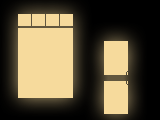
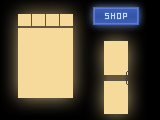
Shop signs and doors

Changed region(s): [[0.5312, 0.0, 0.9062, 0.25]]

diff --git a/src/com/xrbpowered/aethertown/world/region/HouseRole.java b/src/com/xrbpowered/aethertown/world/region/HouseRole.java
@@ -5,9 +5,11 @@ import java.util.Random;
 
 import com.xrbpowered.aethertown.render.tiles.IllumLayer;
 import com.xrbpowered.aethertown.render.tiles.IllumPattern;
+import com.xrbpowered.aethertown.render.tiles.IllumTileComponent;
 import com.xrbpowered.aethertown.utils.Shuffle;
 import com.xrbpowered.aethertown.world.gen.plot.ArchitectureStyle;
 import com.xrbpowered.aethertown.world.gen.plot.ArchitectureTileSet;
+import com.xrbpowered.aethertown.world.gen.plot.ArchitectureTileSet.DoorInfo;
 import com.xrbpowered.aethertown.world.gen.plot.HouseGenerator;
 
 public class HouseRole {
@@ -27,14 +29,17 @@ public class HouseRole {
 	
 	private static class LocalShopRole extends HouseRole {
 		private boolean addOffice;
-		private LocalShopRole(String title, Color color, boolean addOffice) {
+		private LocalShopRole(String title, final DoorInfo door, Color color, boolean addOffice) {
 			super(title, color,
-				new ArchitectureStyle.BlankGroundNotFront(1, ArchitectureTileSet.shopSet).setIllum(IllumPattern.shop),
-				new ArchitectureStyle.BlankGroundNotFront(2, ArchitectureTileSet.shopSet, ArchitectureTileSet.baseSet).setIllum(IllumPattern.shop, (IllumPattern)null),
-				new ArchitectureStyle.BlankGroundNotFront(3, ArchitectureTileSet.shopSet, ArchitectureTileSet.baseSet).setIllum(IllumPattern.shop, (IllumPattern)null),
-				new ArchitectureStyle.BlankGroundNotFront(3, ArchitectureTileSet.shopSet, ArchitectureTileSet.officeSet).setIllum(IllumPattern.shop, IllumPattern.office)
+				new ArchitectureStyle.BlankGroundNotFront(1, ArchitectureTileSet.shopSet).setIllum(IllumPattern.shop).setDoorInfo(door),
+				new ArchitectureStyle.BlankGroundNotFront(2, ArchitectureTileSet.shopSet, ArchitectureTileSet.baseSet).setIllum(IllumPattern.shop, (IllumPattern)null).setDoorInfo(door),
+				new ArchitectureStyle.BlankGroundNotFront(3, ArchitectureTileSet.shopSet, ArchitectureTileSet.baseSet).setIllum(IllumPattern.shop, (IllumPattern)null).setDoorInfo(door),
+				new ArchitectureStyle.BlankGroundNotFront(3, ArchitectureTileSet.shopSet, ArchitectureTileSet.officeSet).setIllum(IllumPattern.shop, IllumPattern.office).setDoorInfo(door)
 			);
 			this.addOffice = addOffice;
+		}
+		private LocalShopRole(String title, Color color, boolean addOffice) {
+			this(title, color==colorFoodSmall ? DoorInfo.fastFood :  null, color, addOffice);
 		}
 		@Override
 		public ArchitectureStyle arch(HouseGenerator house, Random random) {
@@ -80,10 +85,26 @@ public class HouseRole {
 	}
 
 	private static class RestaurantRole extends HouseRole {
-		private RestaurantRole(String title) {
+		private RestaurantRole(String title, DoorInfo door) {
 			super(title, colorFood,
-				new ArchitectureStyle.BlankGroundBack(2, ArchitectureTileSet.officeSet).setIllum(IllumPattern.restaurant)
+				new ArchitectureStyle.BlankGroundBack(1, ArchitectureTileSet.officeSet).setIllum(IllumPattern.restaurant).setDoorInfo(door),
+				new ArchitectureStyle.BlankGroundBack(2, ArchitectureTileSet.officeSet).setIllum(IllumPattern.restaurant).setDoorInfo(door),
+				new ArchitectureStyle.BlankGroundBack(2, ArchitectureTileSet.officeSet, ArchitectureTileSet.baseSet).setIllum(IllumPattern.restaurant, (IllumPattern)null).setDoorInfo(door),
+				new ArchitectureStyle.BlankGroundBack(3, ArchitectureTileSet.officeSet, ArchitectureTileSet.officeSet).setIllum(IllumPattern.restaurant, IllumPattern.office).setDoorInfo(door)
 			);
+		}
+		@Override
+		public ArchitectureStyle arch(HouseGenerator house, Random random) {
+			if(house.getFootprint()>=8) {
+				if(!isPark(house)) {
+					house.addRole = addCityRole(house, random);
+					return house.addRole==residential ? arch[1] : arch[2];
+				}
+				else
+					return arch[0];
+			}
+			else
+				return arch[1];
 		}
 	}
 	
@@ -97,6 +118,14 @@ public class HouseRole {
 		@Override
 		public ArchitectureStyle arch(HouseGenerator house, Random random) {
 			return isCityHouse(house, random) ? arch[1] : arch[0];
+		}
+		@Override
+		public IllumTileComponent getSign() {
+			return ArchitectureTileSet.hotelSign;
+		}
+		@Override
+		public float getSignY() {
+			return 9f;
 		}
 	}
 
@@ -124,10 +153,14 @@ public class HouseRole {
 				return house.getFootprint()<=4 || isCityHouse(house, random) ? arch[2] : arch[1];
 			}
 		}
+		@Override
+		public IllumTileComponent getSign() {
+			return ArchitectureTileSet.postSign;
+		}
 	};
 	public static final HouseRole civicCentre = new HouseRole("Civic Centre", colorCivic,
-			new ArchitectureStyle(2, ArchitectureTileSet.officeSet).setIllum(IllumPattern.officeLobby, IllumLayer.living, IllumPattern.office, IllumLayer.living).setDoorInfo(ArchitectureTileSet.officeDoubleDoor),
-			new ArchitectureStyle(3, ArchitectureTileSet.officeSet).setIllum(IllumPattern.officeLobby, IllumLayer.living, IllumPattern.office, IllumLayer.living).setDoorInfo(ArchitectureTileSet.officeDoubleDoor)
+			new ArchitectureStyle(2, ArchitectureTileSet.officeSet).setIllum(IllumPattern.officeLobby, IllumLayer.living, IllumPattern.office, IllumLayer.living).setDoorInfo(DoorInfo.officeDouble),
+			new ArchitectureStyle(3, ArchitectureTileSet.officeSet).setIllum(IllumPattern.officeLobby, IllumLayer.living, IllumPattern.office, IllumLayer.living).setDoorInfo(DoorInfo.officeDouble)
 		) {
 		@Override
 		public ArchitectureStyle arch(HouseGenerator house, Random random) {
@@ -135,22 +168,30 @@ public class HouseRole {
 		}
 	};
 	public static final HouseRole hospital = new HouseRole("Hospital", colorHospital,
-			new ArchitectureStyle(2, ArchitectureTileSet.officeSet, ArchitectureTileSet.baseSet).setIllum(IllumPattern.hospital, IllumPattern.hospitalWards).setDoorInfo(ArchitectureTileSet.officeDoubleDoor),
-			new ArchitectureStyle(3, ArchitectureTileSet.officeSet, ArchitectureTileSet.baseSet).setIllum(IllumPattern.hospital, IllumPattern.hospitalWards).setDoorInfo(ArchitectureTileSet.officeDoubleDoor)
+			new ArchitectureStyle(2, ArchitectureTileSet.officeSet, ArchitectureTileSet.baseSet).setIllum(IllumPattern.hospital, IllumPattern.hospitalWards).setDoorInfo(DoorInfo.officeDouble),
+			new ArchitectureStyle(3, ArchitectureTileSet.officeSet, ArchitectureTileSet.baseSet).setIllum(IllumPattern.hospital, IllumPattern.hospitalWards).setDoorInfo(DoorInfo.officeDouble)
 		) {
 		@Override
 		public ArchitectureStyle arch(HouseGenerator house, Random random) {
 			return house.getFootprint()<=4 || isCityHouse(house, random) ? arch[1] : arch[0];
+		}
+		@Override
+		public IllumTileComponent getSign() {
+			return ArchitectureTileSet.hospitalSign;
+		}
+		@Override
+		public float getSignY() {
+			return 6.5f;
 		}
 	};
 	
 	public static final HouseRole hotel = new HotelRole("Hotel");
 	public static final HouseRole inn = new HotelRole("Inn");
 	
-	public static final HouseRole localShop = new LocalShopRole("Local Store", colorShopSmall, false);
+	public static final HouseRole localShop = new LocalShopRole("Local Store", DoorInfo.localShop, colorShopSmall, false);
 	public static final HouseRole supermarket = new HouseRole("Supermarket", colorShopLarge,
-			new ArchitectureStyle.BlankGroundNotFront(2, ArchitectureTileSet.shopSet, ArchitectureTileSet.officeSet).setIllum(IllumPattern.shop).setDoorInfo(ArchitectureTileSet.shopDoubleDoor),
-			new ArchitectureStyle.BlankGroundNotFront(3, ArchitectureTileSet.shopSet, ArchitectureTileSet.officeSet).setIllum(IllumPattern.shop).setDoorInfo(ArchitectureTileSet.shopDoubleDoor)
+			new ArchitectureStyle.BlankGroundNotFront(2, ArchitectureTileSet.shopSet, ArchitectureTileSet.officeSet).setIllum(IllumPattern.shop).setDoorInfo(DoorInfo.supermarket),
+			new ArchitectureStyle.BlankGroundNotFront(3, ArchitectureTileSet.shopSet, ArchitectureTileSet.officeSet).setIllum(IllumPattern.shop).setDoorInfo(DoorInfo.supermarket)
 		) {
 		@Override
 		protected ArchitectureStyle arch(HouseGenerator house, Random random) {
@@ -159,7 +200,7 @@ public class HouseRole {
 	};
 	public static final HouseRole clothesShop = new ShopRole("Fashion Shop", IllumPattern.shop);
 	public static final HouseRole giftShop = new HouseRole("Gift Shop + Cafeteria", colorShop,
-		new ArchitectureStyle.BlankBack(1, ArchitectureTileSet.shopSet).setIllum(IllumPattern.shop, IllumLayer.living)
+		new ArchitectureStyle.BlankBack(1, ArchitectureTileSet.shopSet).setIllum(IllumPattern.shop, IllumLayer.living).setDoorInfo(DoorInfo.coffeeShop)
 	);
 	
 	public static final HouseRole museum = new HouseRole("Museum", colorCulture,
@@ -189,6 +230,14 @@ public class HouseRole {
 		return arch[0];
 	}
 	
+	public IllumTileComponent getSign() {
+		return null;
+	}
+	
+	public float getSignY() {
+		return 5.5f;
+	}
+	
 	public static void assignRole(HouseGenerator house, HouseRole role, Random random) {
 		house.addRole = null;
 		house.role = role;
@@ -208,17 +257,17 @@ public class HouseRole {
 	}
 	
 	private static final Shuffle.List<HouseRole> restaurantShuffle = new Shuffle.List<>(
-		new RestaurantRole("Pub"),
-		new RestaurantRole("Italian Restaurant"),
-		new RestaurantRole("Pizza Restaurant"),
-		new RestaurantRole("Central-Asian Restaurant"),
-		new RestaurantRole("Chinese Buffet"),
-		new RestaurantRole("Thai Restaurant"),
-		new RestaurantRole("Mexican Restaurant"),
-		new RestaurantRole("Indian Restaurant"),
-		new RestaurantRole("Eastern-European Restaurant"),
-		new RestaurantRole("French Restaurant"),
-		new RestaurantRole("Middle-Eastern Restaurant")
+		new RestaurantRole("Pub", DoorInfo.restaurantBlack),
+		new RestaurantRole("Italian Restaurant", DoorInfo.restaurantRed),
+		new RestaurantRole("Pizza Restaurant", DoorInfo.restaurantRed),
+		new RestaurantRole("Asian Restaurant", DoorInfo.restaurantRed),
+		new RestaurantRole("Chinese Buffet", DoorInfo.restaurantRed),
+		new RestaurantRole("Thai Restaurant", DoorInfo.restaurantRed),
+		new RestaurantRole("Mexican Restaurant", DoorInfo.restaurantRed),
+		new RestaurantRole("Indian Restaurant", DoorInfo.restaurantRed),
+		new RestaurantRole("European Restaurant", DoorInfo.restaurantBlack),
+		new RestaurantRole("French Restaurant", DoorInfo.restaurantBlack),
+		new RestaurantRole("Mediterranean Restaurant", DoorInfo.restaurantRed)
 	);
 
 	public static HouseRole randomRestaurant(Random random) {
@@ -230,7 +279,7 @@ public class HouseRole {
 			new LocalShopRole("Burrito Bar", colorFoodSmall, true),
 			new LocalShopRole("Burger Bar", colorFoodSmall, true),
 			new LocalShopRole("Pizza Bar", colorFoodSmall, true),
-			new LocalShopRole("Coffee Shop", colorFoodSmall, true),
+			new LocalShopRole("Coffee Shop", DoorInfo.coffeeShop, colorFoodSmall, true),
 			new LocalShopRole("Chinese Takeaway", colorFoodSmall, true),
 			new LocalShopRole("Fish and Chips", colorFoodSmall, true),
 			new LocalShopRole("Sushi Bar", colorFoodSmall, true),

diff --git a/src/com/xrbpowered/aethertown/world/gen/plot/ArchitectureTileSet.java b/src/com/xrbpowered/aethertown/world/gen/plot/ArchitectureTileSet.java
@@ -10,19 +10,42 @@ import com.xrbpowered.aethertown.render.tiles.IllumTileComponent;
 import com.xrbpowered.aethertown.utils.Dir;
 import com.xrbpowered.aethertown.world.Tile;
 import com.xrbpowered.aethertown.world.tiles.HouseT.HouseTile;
+import com.xrbpowered.gl.res.mesh.ObjMeshLoader;
 import com.xrbpowered.gl.res.mesh.StaticMesh;
 import com.xrbpowered.gl.res.texture.Texture;
 
 public abstract class ArchitectureTileSet {
 
-	public static class DoorInfo {
-		public boolean allowLamp;
+	public enum DoorInfo {
+		residential("ground_wall_door"),
+		office("office/door"),
+		restaurantRed("office/restaurant_red", false),
+		restaurantBlack("office/restaurant_black", false),
+		officeDouble("office/ddoor", false),
+		shop("shop/door"),
+		localShop("shop/local"),
+		fastFood("shop/fastfood"),
+		coffeeShop("shop/coffee"),
+		shopDouble("shop/ddoor", false),
+		supermarket("shop/supermarket", false);
+		
+		private final String texturePath;
+		public final boolean allowLamp;
 		public IllumTileComponent door;
-		public DoorInfo(boolean allowLamp) {
+		
+		private DoorInfo(String path, boolean allowLamp) {
+			this.texturePath = path;
 			this.allowLamp = allowLamp;
 		}
-		public DoorInfo() {
-			this(true);
+		
+		private DoorInfo(String path) {
+			this(path, true);
+		}
+		
+		public void createComponent() {
+			door = new IllumTileComponent(wall,
+					new Texture(String.format("models/house/%s.png", texturePath), false, true, false),
+					new Texture(String.format("models/house/%s_illum.png", texturePath), false, true, false));
 		}
 	}
 	
@@ -68,14 +91,6 @@ public abstract class ArchitectureTileSet {
 	public abstract DoorInfo getDefaultDoor();
 	public abstract void createSetComponents();
 
-	public static StaticMesh wall;
-	
-	public static final DoorInfo baseDoor = new DoorInfo();
-	public static final DoorInfo officeDoor = new DoorInfo();
-	public static final DoorInfo officeDoubleDoor = new DoorInfo(false);
-	public static final DoorInfo shopDoor = new DoorInfo();
-	public static final DoorInfo shopDoubleDoor = new DoorInfo(false);
-	
 	public static ArchitectureTileSet baseSet = new ArchitectureTileSet(3) {
 		public IllumTileComponent topEnd;
 		
@@ -101,14 +116,11 @@ public abstract class ArchitectureTileSet {
 		
 		@Override
 		public DoorInfo getDefaultDoor() {
-			return baseDoor;
+			return DoorInfo.residential;
 		}
 		
 		@Override
 		public void createSetComponents() {
-			baseDoor.door = new IllumTileComponent(wall,
-					new Texture("models/house/ground_wall_door.png", false, true, false),
-					new Texture("models/house/ground_wall_door_illum.png", false, true, false));
 			walls[0] = new IllumTileComponent(wall,
 					new Texture("models/house/ground_wall.png", false, true, false),
 					new Texture("models/house/ground_wall_illum.png", false, true, false));
@@ -156,17 +168,11 @@ public abstract class ArchitectureTileSet {
 		
 		@Override
 		public DoorInfo getDefaultDoor() {
-			return officeDoor;
+			return DoorInfo.office;
 		}
 		
 		@Override
 		public void createSetComponents() {
-			officeDoor.door = new IllumTileComponent(wall,
-					new Texture("models/house/office/door.png", false, true, false),
-					new Texture("models/house/office/door_illum.png", false, true, false));
-			officeDoubleDoor.door = new IllumTileComponent(wall,
-					new Texture("models/house/office/ddoor.png", false, true, false),
-					new Texture("models/house/office/ddoor_illum.png", false, true, false));
 			Texture illum = new Texture("models/house/office/illum.png", false, true, false);
 			walls[0] = new IllumTileComponent(wall,
 					new Texture("models/house/office/ground.png", false, true, false), illum);
@@ -204,17 +210,11 @@ public abstract class ArchitectureTileSet {
 
 		@Override
 		public DoorInfo getDefaultDoor() {
-			return shopDoor;
+			return DoorInfo.shop;
 		}
 
 		@Override
 		public void createSetComponents() {
-			shopDoor.door = new IllumTileComponent(wall,
-					new Texture("models/house/shop/door.png", false, true, false),
-					new Texture("models/house/shop/door_illum.png", false, true, false));
-			shopDoubleDoor.door = new IllumTileComponent(wall,
-					new Texture("models/house/shop/ddoor.png", false, true, false),
-					new Texture("models/house/shop/ddoor_illum.png", false, true, false));
 			walls[0] = new IllumTileComponent(wall,
 					new Texture("models/house/shop/ground.png", false, true, false),
 					new Texture("models/house/shop/ground_illum.png", false, true, false));
@@ -224,8 +224,27 @@ public abstract class ArchitectureTileSet {
 		}
 	};
 	
+	public static StaticMesh wall;
+	public static IllumTileComponent postSign;
+	public static IllumTileComponent hospitalSign;
+	public static IllumTileComponent hotelSign;
+	
 	public static void createComponents() {
 		wall = BasicGeometry.wall(Tile.size, 6*Tile.ysize, ObjectShader.vertexInfo, null);
+		
+		StaticMesh sign = ObjMeshLoader.loadObj("models/house/sign/sign.obj", 0, 1f, ObjectShader.vertexInfo, null);
+		postSign = new IllumTileComponent(sign,
+				new Texture("models/house/sign/post.png", false, true, false),
+				new Texture("models/house/sign/post_illum.png", false, true, false));
+		hospitalSign = new IllumTileComponent(sign,
+				new Texture("models/house/sign/hospital.png", false, true, false),
+				new Texture("models/house/sign/hospital_illum.png", false, true, false));
+		hotelSign = new IllumTileComponent(ObjMeshLoader.loadObj("models/house/sign/sign2.obj", 0, 1f, ObjectShader.vertexInfo, null),
+				new Texture("models/house/sign/hotel.png", false, true, false),
+				new Texture("models/house/sign/hotel_illum.png", false, true, false));
+		
+		for(DoorInfo door : DoorInfo.values())
+			door.createComponent();
 		baseSet.createSetComponents();
 		officeSet.createSetComponents();
 		shopSet.createSetComponents();

diff --git a/src/com/xrbpowered/aethertown/world/tiles/HouseT.java b/src/com/xrbpowered/aethertown/world/tiles/HouseT.java
@@ -11,6 +11,7 @@ import com.xrbpowered.aethertown.render.ObjectShader;
 import com.xrbpowered.aethertown.render.TexColor;
 import com.xrbpowered.aethertown.render.tiles.IllumLayer;
 import com.xrbpowered.aethertown.render.tiles.IllumPattern;
+import com.xrbpowered.aethertown.render.tiles.IllumTileComponent;
 import com.xrbpowered.aethertown.render.tiles.IllumTileObjectInfo;
 import com.xrbpowered.aethertown.render.tiles.TileComponent;
 import com.xrbpowered.aethertown.render.tiles.TileObjectInfo;
@@ -59,7 +60,10 @@ public class HouseT extends TileTemplate {
 	
 	@Override
 	public String getTileInfo(Tile tile) {
-		return ((HouseGeneratorBase) tile.sub.parent).getInfo();
+		if(tile.sub.i==0 && tile.sub.j==0)
+			return ((HouseGeneratorBase) tile.sub.parent).getInfo();
+		else
+			return super.getTileInfo(tile);
 	}
 	
 	@Override
@@ -158,6 +162,15 @@ public class HouseT extends TileTemplate {
 			if(sub.j==back)
 				arch.getWall(f, Dir.north, tile, yloc).addInstance(r, new IllumTileObjectInfo(tile, 0, arch.getFloorY(f), 0)
 						.illum(illumLayer, illumTrigger).illumMod(illumMod).rotate(tile.d));
+			
+			if(f==0 && sub.i==0 && sub.j==front) {
+				IllumTileComponent sign = house.role.getSign();
+				if(sign!=null) {
+					Dir da = house.right>=house.left ? tile.d.cw() : tile.d.ccw();
+					sign.addInstance(r, new IllumTileObjectInfo(tile, -tile.d.dx*0.5f+da.dx*0.5f, house.role.getSignY(), -tile.d.dz*0.5f+da.dz*0.5f)
+							.illum(illumLayer, illumTrigger).rotate(tile.d.flip()));
+				}
+			}
 		}
 
 		int roofy = arch.getRoofY();
